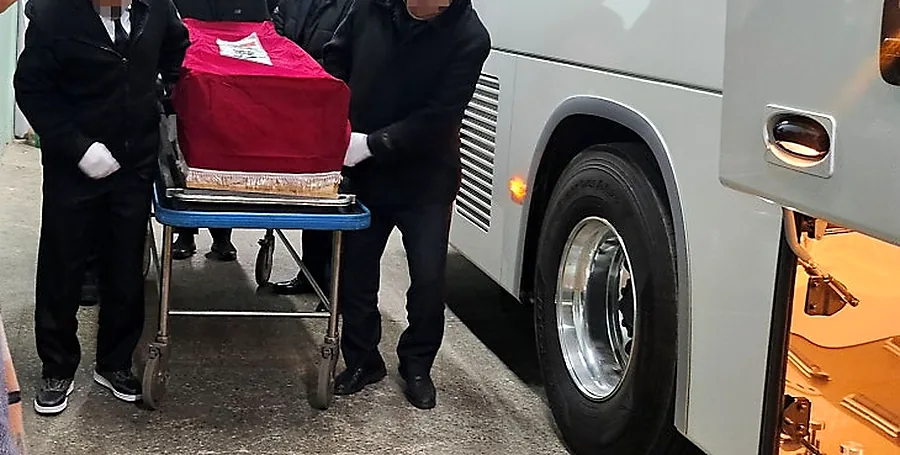
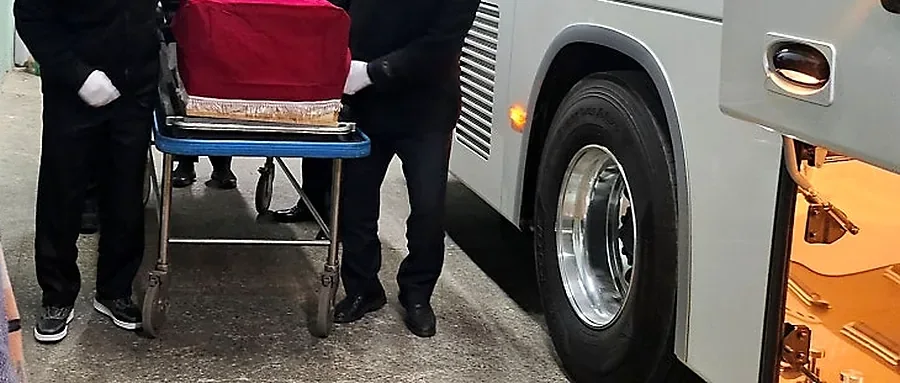
Clean up existing posts: remove 7 photos with visible masking, crop out mosaic in 5
Claude-Session: https://claude.ai/code/session_01QCBiDcxBbqWdjEUHwdyAog

diff --git a/guide/sinchon-severance-christian-4day-case.html b/guide/sinchon-severance-christian-4day-case.html
@@ -153,13 +153,13 @@ article th{background:#f1f5f9;font-weight:800;white-space:nowrap}
   <article>
 <section id="s1"><h2>늦은 밤, 한 통의 전화로 시작된 4일장</h2><p>서울 신촌의 <strong>신촌세브란스병원장례식장</strong>에서 이음케어라이프가 모신 기독교 장례입니다. 첫 연락은 밤이 깊은 시간이었습니다. 병원에서 임종 소식을 들은 유가족께서는 무엇부터 해야 할지 막막해하셨고, 동시에 <strong>"날짜가 하루 늘어나면 비용이 크게 불어나지 않을까"</strong>를 가장 먼저 걱정하셨습니다.</p><p>밤늦게 임종하시면 첫날은 사실상 안치와 접수만 하고 지나갑니다. 3일장으로 맞추면 실제로 조문을 받을 수 있는 시간은 하루 남짓뿐이고, 교회 예배 일정이나 화장장 예약 시간대까지 겹치면 여유가 더 줄어듭니다. 그래서 이번 장례는 가족과 상의해 <strong>4일장</strong>으로 정하고, 교회와 함께 드릴 예배를 중심으로 일정을 짰습니다.</p><p>장례 내내 기준은 두 가지였습니다. 신앙 안에서 정성껏 보내 드리는 것, 그리고 길어진 일정 속에서도 가족이 지치지 않도록 불필요한 부담을 덜어 드리는 것입니다.</p><div class="gal gal-1"><figure><img src="/images/guide/sinchon-severance-christian-4day-case/coffin-flowers.webp" alt="흰 꽃과 장미, 거베라로 가득 채운 관 꽃장식" loading="lazy" decoding="async"></figure></div></section>
 <section id="s2"><h2>4일장은 이렇게 흘러갔습니다</h2><figure class="fig "><img src="/images/guide/sinchon-severance-christian-4day-case/fourday.svg" alt="밤늦게 임종했을 때 3일장과 4일장의 일정을 비교한 타임라인" loading="lazy" decoding="async"></figure><p>날짜가 길어질수록 순서가 흐트러지기 쉽습니다. 이번 장례는 <strong>화장 예약 시각 → 발인 → 입관 → 예배</strong> 순으로 거꾸로 계산해 일정표를 만들었습니다.</p><h3>1일차 밤 — 접수와 안치</h3><p>임종 확인 후 장례식장 안치를 마치고, 사망진단서 발급 여부와 장례 방식을 확인했습니다. 화장장 예약 가능 시간대를 먼저 살핀 뒤 4일장으로 확정했습니다. 늦은 시간이라 빈소 준비는 다음 날 아침으로 미루고, 가족분들께는 잠시라도 쉬시도록 권해 드렸습니다.</p><h3>2일차 — 빈소 마련과 위로예배</h3><p>오전에 빈소와 제단을 갖추고 부고를 보냈습니다. 교회와 시간을 맞춰 첫 위로예배를 드리고, 본격적으로 조문을 받기 시작했습니다.</p><h3>3일차 — 입관예배</h3><p>찬송과 기도 속에서 입관을 진행했습니다. 관 안은 흰 꽃을 바탕으로 장미·거베라·안개꽃을 더해 정성껏 꾸몄습니다. 하루 여유가 있었기에 가족분들이 서두르지 않고 마지막 인사를 나누실 수 있었습니다.</p><h3>4일차 — 발인예배, 서울시립승화원 화장, 봉안</h3><p>아침 발인예배 후 운구해 <strong>서울시립승화원</strong>에서 화장을 마치고, 유골함은 <strong>서현추모공원</strong> 봉안당에 모셨습니다. 봉안 자리 앞에서도 짧은 예배로 마지막 순서를 마무리했습니다.</p></section>
-<section id="s3"><h2>기독교 4일장, 예배 일정이 중심입니다</h2><p>기독교 장례에서는 보통 <strong>위로예배(임종·빈소)</strong>, <strong>입관예배</strong>, <strong>발인예배</strong>, 그리고 화장 후 <strong>하관·봉안 예배</strong>가 이어집니다. 예배마다 목사님과 교우들이 함께하시기 때문에, 장례 일정은 교회의 일정과 맞물려 움직입니다.</p><ul><li><strong>교회 연락은 접수와 동시에</strong> — 담임 목사님 또는 교구 담당자에게 임종 사실과 장례식장, 예상 일정을 바로 알립니다.</li><li><strong>예배 시간표를 한 장으로</strong> — 위로·입관·발인 예배 시간을 정리해 가족과 교회에 같은 내용을 공유하면 혼선이 없습니다.</li><li><strong>제사 대신 예배</strong> — 상차림(제물)은 생략하거나 간소하게 하고, 헌화와 찬송으로 추모하는 경우가 많습니다. 가족 안에 종교가 다른 분이 있다면 미리 의견을 모아 두세요.</li><li><strong>유골함·봉안 준비</strong> — 종교에 맞는 유골함을 준비하고, 봉안당 안치 시간도 화장 종료 시각에 맞춰 둡니다.</li></ul><p>이번 장례도 예배 시간이 정해진 뒤에야 입관과 발인 시간을 확정했고, 덕분에 교회 분들이 모든 순서에 함께하실 수 있었습니다.</p><div class="gal gal-2"><figure><img src="/images/guide/sinchon-severance-christian-4day-case/flowers-detail.webp" alt="안개꽃과 장미, 백합류로 장식한 관 꽃장식 근접 모습" loading="lazy" decoding="async"></figure><figure><img src="/images/guide/sinchon-severance-christian-4day-case/farewell.webp" alt="검은 상복을 입은 가족들이 고개 숙여 인사하는 뒷모습" loading="lazy" decoding="async"></figure></div></section>
+<section id="s3"><h2>기독교 4일장, 예배 일정이 중심입니다</h2><p>기독교 장례에서는 보통 <strong>위로예배(임종·빈소)</strong>, <strong>입관예배</strong>, <strong>발인예배</strong>, 그리고 화장 후 <strong>하관·봉안 예배</strong>가 이어집니다. 예배마다 목사님과 교우들이 함께하시기 때문에, 장례 일정은 교회의 일정과 맞물려 움직입니다.</p><ul><li><strong>교회 연락은 접수와 동시에</strong> — 담임 목사님 또는 교구 담당자에게 임종 사실과 장례식장, 예상 일정을 바로 알립니다.</li><li><strong>예배 시간표를 한 장으로</strong> — 위로·입관·발인 예배 시간을 정리해 가족과 교회에 같은 내용을 공유하면 혼선이 없습니다.</li><li><strong>제사 대신 예배</strong> — 상차림(제물)은 생략하거나 간소하게 하고, 헌화와 찬송으로 추모하는 경우가 많습니다. 가족 안에 종교가 다른 분이 있다면 미리 의견을 모아 두세요.</li><li><strong>유골함·봉안 준비</strong> — 종교에 맞는 유골함을 준비하고, 봉안당 안치 시간도 화장 종료 시각에 맞춰 둡니다.</li></ul><p>이번 장례도 예배 시간이 정해진 뒤에야 입관과 발인 시간을 확정했고, 덕분에 교회 분들이 모든 순서에 함께하실 수 있었습니다.</p><div class="gal gal-1"><figure><img src="/images/guide/sinchon-severance-christian-4day-case/flowers-detail.webp" alt="안개꽃과 장미, 백합류로 장식한 관 꽃장식 근접 모습" loading="lazy" decoding="async"></figure></div></section>
 <section id="s4"><h2>늦은 밤 임종, 첫 1시간에 해 둘 일</h2><p>밤늦게 연락을 받으면 당황하기 쉽지만, 아래 순서만 지키면 다음 날 아침부터 차분하게 장례를 시작할 수 있습니다.</p><ol><li><strong>장례 접수 연락</strong> — 장례 접수는 24시간 가능합니다. 한 곳에 연락해 이송·안치를 맡기세요.</li><li><strong>사망진단서 확인</strong> — 병원 임종이라면 담당 의사가 발급합니다. 화장 예약과 사망신고, 보험 청구에 쓰이니 여러 부 받아 둡니다.</li><li><strong>교회 연락</strong> — 기독교 장례라면 이 단계에서 목사님께 알려 위로예배 시간을 의논합니다.</li><li><strong>화장 예약 시간대 확인</strong> — 화장은 사망 후 24시간이 지나야 가능하고, 서울시립승화원은 보건복지부 e하늘 장사정보시스템으로 예약합니다. 원하는 시간대가 차 있으면 장례가 하루 늘어날 수 있습니다.</li><li><strong>부고는 일정 확정 후</strong> — 발인 일시가 정해진 뒤 보내야 정정할 일이 없습니다. 밤에는 가까운 가족에게만 먼저 알리는 것으로 충분합니다.</li></ol><blockquote>밤이 늦었다고 아침까지 기다리실 필요는 없습니다. 접수만 먼저 해 두면, 나머지는 날이 밝은 뒤 하나씩 정해도 늦지 않습니다.</blockquote>
 <aside class="cta cta-call">
   <div class="cta-text"><strong>지금 임종·장례가 급하신가요?</strong><span>24시간 장례지도사가 바로 연결됩니다. 비용은 장례 후에 정산합니다.</span></div>
   <a class="btn btn-red" href="tel:1588-9012">📞 지금 전화하기</a>
 </aside></section>
-<section id="s5"><h2>신촌에서 장례를 치를 때 알아두면 좋은 점</h2><ul><li><strong>서울시립승화원 관내·관외 구분</strong> — 서울·고양·파주에 주민등록상 6개월 이상 거주한 분은 관내 회차를, 그 밖의 분은 관외 회차를 이용합니다. 이용료도 관내·관외가 다르니 예약할 때 고인의 주소지를 꼭 확인하세요.</li><li><strong>서류는 회차 30분 전까지</strong> — 승화원은 화장 회차 시작 30분 전까지 서류 접수를 마치도록 안내합니다. 신촌에서 출발한다면 출근 시간대 교통을 감안해 발인 시간을 넉넉히 잡는 것이 안전합니다.</li><li><strong>장례식장 비용은 별도</strong> — 빈소 사용료·안치료·식대는 장례식장에 직접 내는 항목입니다. 4일장이 되면 이 부분이 하루치 더 늘어납니다.</li><li><strong>봉안당 안치 시간 예약</strong> — 사설 추모공원은 안치 가능 시간이 정해져 있는 경우가 많습니다. 화장이 끝나는 시각과 이동 시간을 계산해 미리 맞춰 두세요.</li></ul><p>3일장 전체 절차는 <a href="/guide/funeral-3-day-procedure">3일장 장례 절차 총정리</a>, 같은 기독교 장례라도 규모를 줄인 사례는 <a href="/guide/paju-hanbit-christian-family-funeral-case">파주한빛장례식장 기독교 2일 가족장 후기</a>에서 보실 수 있습니다.</p><div class="gal gal-2"><figure><img src="/images/guide/sinchon-severance-christian-4day-case/hearse.webp" alt="운구 리무진 뒷문을 열고 관을 모실 준비를 하는 장례지도사" loading="lazy" decoding="async"></figure><figure><img src="/images/guide/sinchon-severance-christian-4day-case/columbarium.webp" alt="봉안당 실내에서 가족들이 유골함 앞에 서 있는 모습" loading="lazy" decoding="async"></figure></div></section>
+<section id="s5"><h2>신촌에서 장례를 치를 때 알아두면 좋은 점</h2><ul><li><strong>서울시립승화원 관내·관외 구분</strong> — 서울·고양·파주에 주민등록상 6개월 이상 거주한 분은 관내 회차를, 그 밖의 분은 관외 회차를 이용합니다. 이용료도 관내·관외가 다르니 예약할 때 고인의 주소지를 꼭 확인하세요.</li><li><strong>서류는 회차 30분 전까지</strong> — 승화원은 화장 회차 시작 30분 전까지 서류 접수를 마치도록 안내합니다. 신촌에서 출발한다면 출근 시간대 교통을 감안해 발인 시간을 넉넉히 잡는 것이 안전합니다.</li><li><strong>장례식장 비용은 별도</strong> — 빈소 사용료·안치료·식대는 장례식장에 직접 내는 항목입니다. 4일장이 되면 이 부분이 하루치 더 늘어납니다.</li><li><strong>봉안당 안치 시간 예약</strong> — 사설 추모공원은 안치 가능 시간이 정해져 있는 경우가 많습니다. 화장이 끝나는 시각과 이동 시간을 계산해 미리 맞춰 두세요.</li></ul><p>3일장 전체 절차는 <a href="/guide/funeral-3-day-procedure">3일장 장례 절차 총정리</a>, 같은 기독교 장례라도 규모를 줄인 사례는 <a href="/guide/paju-hanbit-christian-family-funeral-case">파주한빛장례식장 기독교 2일 가족장 후기</a>에서 보실 수 있습니다.</p><div class="gal gal-1"><figure><img src="/images/guide/sinchon-severance-christian-4day-case/hearse.webp" alt="운구 리무진 뒷문을 열고 관을 모실 준비를 하는 장례지도사" loading="lazy" decoding="async"></figure></div></section>
 <section id="s6"><h2>4일장이면 상조 비용도 두 배가 될까?</h2><p>가장 많이 받는 오해입니다. 결론부터 말하면 <strong>그렇지 않습니다.</strong> 장례가 하루 늘면 주로 아래 항목이 늘어납니다.</p><table><thead><tr><th>항목</th><th>하루 늘어날 때</th><th>어디에 내나</th></tr></thead><tbody><tr><td>빈소 사용료·안치료</td><td>하루치 추가</td><td>장례식장</td></tr><tr><td>조문객 식사·음료</td><td>조문 인원만큼 추가</td><td>장례식장</td></tr><tr><td>접객 도우미</td><td>투입 일수에 따라 조정</td><td>상조</td></tr><tr><td>관·수의·입관용품·차량</td><td>변동 없음 (한 번만 사용)</td><td>상조</td></tr></tbody></table><p>관·수의·유골함·운구 차량처럼 장례에 한 번만 쓰이는 품목은 일수와 상관이 없습니다. 그래서 4일장의 추가 비용은 대부분 <strong>장례식장 쪽 하루치 비용과 인력 일수</strong>에서 생깁니다. 정확한 금액은 장례식장 요금표와 조문객 규모에 따라 달라지니, 접수 단계에서 하루가 늘어날 때의 차이를 함께 계산해 드립니다.</p>
 <aside class="cta cta-consult">
   <div class="cta-text"><strong>혼자 정하기 어려우시면 물어보세요</strong><span>장례·요양병원·방문요양 무엇이든 24시간 무료 상담합니다.</span></div>

diff --git a/guide/yangju-hankook-buddhist-spouse-3day-case.html b/guide/yangju-hankook-buddhist-spouse-3day-case.html
@@ -151,8 +151,8 @@ article th{background:#f1f5f9;font-weight:800;white-space:nowrap}
   <div class="summary"><b>핵심만 먼저</b><ul><li>평생을 함께한 배우자를 보내는 장례로, 상주가 지치지 않도록 일정과 역할을 미리 나눴습니다.</li><li>불교식 제단과 입관 후, 셋째 날 이른 아침 발인해 성남 화장장으로 이동했습니다.</li><li>화장장이 먼 경우 발인 시각은 화장 회차에서 이동 시간을 빼 거꾸로 정합니다.</li></ul></div>
   <nav class="toc"><b>목차</b><ol><li><a href="#s1">평생의 동반자를 보내는 장례였습니다</a></li><li><a href="#s2">3일 동안 이렇게 진행했습니다</a></li><li><a href="#s3">멀리 있는 화장장, 발인 시간은 거꾸로 계산합니다</a></li><li><a href="#s4">양주에서 화장장을 고를 때 알아두면 좋은 점</a></li><li><a href="#s5">배우자상, 남은 배우자를 위한 체크리스트</a></li><li><a href="#s6">불교식 장례, 날짜별로 준비할 것</a></li><li><a href="#s7">후불제 상조라서 가능했던 것</a></li></ol></nav>
   <article>
-<section id="s1"><h2>평생의 동반자를 보내는 장례였습니다</h2><p>경기 양주의 <strong>양주한국병원장례식장</strong>에서 이음케어라이프가 함께한 <strong>배우자상</strong>입니다. 고인과 유가족 모두 불교 신앙을 지녀 왔기에, 장례는 처음부터 <strong>불교식 3일장</strong>으로 정했습니다.</p><p>배우자상은 다른 장례와 조금 다릅니다. 가장 큰 슬픔을 안은 분이 동시에 손님을 맞아야 하는 자리에 서게 되고, 대개 연세도 있으셔서 사흘 내내 빈소를 지키는 일이 체력적으로 큰 부담이 됩니다. 그래서 이번 장례에서는 접수 직후 자녀분들과 함께 <strong>누가 무엇을 맡을지</strong>부터 정리했습니다. 배우자분은 고인 곁에서 마지막 시간을 보내시는 데 집중하고, 조문객 응대와 연락, 정산 같은 실무는 자녀분들과 장례지도사가 나눠 맡는 방식이었습니다.</p><div class="gal gal-1"><figure><img src="/images/guide/yangju-hankook-buddhist-spouse-3day-case/altar.webp" alt="흰 국화로 층층이 꾸민 불교식 빈소 제단과 향로, 촛대" loading="lazy" decoding="async"></figure></div></section>
-<section id="s2"><h2>3일 동안 이렇게 진행했습니다</h2><h3>1일차 — 접수, 안치, 빈소 마련</h3><p>장례 접수와 함께 불교식·3일장 원칙을 확정하고, 병원 장례식장 빈소를 바로 차렸습니다. 같은 날 화장장 예약 가능 회차를 확인해 발인 시각의 큰 틀을 잡았습니다. 제단은 흰 국화를 층층이 올린 단정한 형태로, 향로와 촛대를 갖춘 불교식으로 꾸몄습니다.</p><h3>2일차 — 불교식 입관</h3><p>입관은 정해진 시간에 차분하게 진행했습니다. 염습과 수의 착의를 마친 뒤 가족분들께 충분한 인사 시간을 드렸고, 가족들은 관 위에 한 사람씩 마지막 말을 적어 고인께 전했습니다. 과한 연출 없이 기본 절차를 지키는 데 집중했습니다.</p><h3>3일차 — 이른 아침 발인, 성남 화장, 납골당 안치</h3><p>발인은 <strong>이른 아침 6시 무렵</strong>이었습니다. 화장장이 양주에서 꽤 떨어진 성남에 있었기 때문입니다. 고인은 운구 리무진으로, 가족과 조문객은 장례 버스로 함께 이동해 화장을 마치고, 유골함은 <strong>가족 납골당</strong>에 모셨습니다.</p><div class="gal gal-1"><figure><img src="/images/guide/yangju-hankook-buddhist-spouse-3day-case/coffin-writing.webp" alt="가족들이 관 위에 몸을 숙여 마지막 글을 적는 모습" loading="lazy" decoding="async"></figure></div></section>
+<section id="s1"><h2>평생의 동반자를 보내는 장례였습니다</h2><p>경기 양주의 <strong>양주한국병원장례식장</strong>에서 이음케어라이프가 함께한 <strong>배우자상</strong>입니다. 고인과 유가족 모두 불교 신앙을 지녀 왔기에, 장례는 처음부터 <strong>불교식 3일장</strong>으로 정했습니다.</p><p>배우자상은 다른 장례와 조금 다릅니다. 가장 큰 슬픔을 안은 분이 동시에 손님을 맞아야 하는 자리에 서게 되고, 대개 연세도 있으셔서 사흘 내내 빈소를 지키는 일이 체력적으로 큰 부담이 됩니다. 그래서 이번 장례에서는 접수 직후 자녀분들과 함께 <strong>누가 무엇을 맡을지</strong>부터 정리했습니다. 배우자분은 고인 곁에서 마지막 시간을 보내시는 데 집중하고, 조문객 응대와 연락, 정산 같은 실무는 자녀분들과 장례지도사가 나눠 맡는 방식이었습니다.</p></section>
+<section id="s2"><h2>3일 동안 이렇게 진행했습니다</h2><h3>1일차 — 접수, 안치, 빈소 마련</h3><p>장례 접수와 함께 불교식·3일장 원칙을 확정하고, 병원 장례식장 빈소를 바로 차렸습니다. 같은 날 화장장 예약 가능 회차를 확인해 발인 시각의 큰 틀을 잡았습니다. 제단은 흰 국화를 층층이 올린 단정한 형태로, 향로와 촛대를 갖춘 불교식으로 꾸몄습니다.</p><h3>2일차 — 불교식 입관</h3><p>입관은 정해진 시간에 차분하게 진행했습니다. 염습과 수의 착의를 마친 뒤 가족분들께 충분한 인사 시간을 드렸고, 가족들은 관 위에 한 사람씩 마지막 말을 적어 고인께 전했습니다. 과한 연출 없이 기본 절차를 지키는 데 집중했습니다.</p><h3>3일차 — 이른 아침 발인, 성남 화장, 납골당 안치</h3><p>발인은 <strong>이른 아침 6시 무렵</strong>이었습니다. 화장장이 양주에서 꽤 떨어진 성남에 있었기 때문입니다. 고인은 운구 리무진으로, 가족과 조문객은 장례 버스로 함께 이동해 화장을 마치고, 유골함은 <strong>가족 납골당</strong>에 모셨습니다.</p></section>
 <section id="s3"><h2>멀리 있는 화장장, 발인 시간은 거꾸로 계산합니다</h2><figure class="fig "><img src="/images/guide/yangju-hankook-buddhist-spouse-3day-case/route.svg" alt="양주한국병원장례식장에서 성남 화장장, 가족 납골당으로 이어지는 발인 날 동선" loading="lazy" decoding="async"></figure><p>이번 장례의 가장 큰 변수는 <strong>거리</strong>였습니다. 양주에서 성남까지는 수도권을 가로지르는 길이라, 출근 시간대에 걸리면 이동 시간을 장담하기 어렵습니다. 그래서 발인 시각을 이렇게 정했습니다.</p><ol><li>화장장 예약 <strong>회차 시작 시각</strong>을 기준으로 잡습니다.</li><li>화장장마다 회차 전 <strong>서류 접수 마감</strong>이 있습니다. 예를 들어 서울시립승화원은 회차 30분 전까지 접수하도록 안내합니다. 이 여유를 뺍니다.</li><li>평소 이동 시간에 <strong>정체 여유</strong>를 더해 뺍니다.</li><li>그 시각보다 조금 앞서 발인 예식을 시작합니다.</li></ol><p>그 결과가 새벽에 가까운 발인이었습니다. 전날 저녁, 운구 인원과 영정·위패를 모실 분, 버스 탑승 인원과 집합 시각을 미리 정해 두었기에 이른 시간에도 순서가 흐트러지지 않았습니다.</p></section>
 <section id="s4"><h2>양주에서 화장장을 고를 때 알아두면 좋은 점</h2><p>공설 화장장은 대부분 <strong>관내(해당 지역 주민)</strong>와 <strong>관외</strong>를 나눠 예약 회차와 요금을 다르게 운영합니다. 양주에서 장례를 치를 때 미리 알아 두면 좋은 내용입니다.</p><ul><li><strong>서울시립승화원은 관외</strong> — 승화원의 관내 회차는 서울·고양·파주에 주민등록상 6개월 이상 거주한 분이 대상입니다. 고인 주소지가 양주라면 관외 회차를 이용하게 됩니다.</li><li><strong>예약은 e하늘로</strong> — 대부분의 공설 화장장은 보건복지부 e하늘 장사정보시스템으로 예약합니다. 원하는 날짜에 관외 회차가 없으면 더 먼 화장장을 이용하거나 일정이 늘어날 수 있습니다.</li><li><strong>화장은 사망 후 24시간 이후</strong> — 이 기준과 예약 가능 회차를 함께 보고 발인일을 정합니다.</li><li><strong>요금은 예약 단계에서 확인</strong> — 관외 요금은 화장장마다 차이가 크니, 장례지도사와 후보 화장장의 요금과 이동 거리를 같이 비교해 보세요.</li></ul><p>이번 장례는 이런 조건을 따져 성남 화장장을 이용했습니다. 장례 전체 절차가 궁금하시면 <a href="/guide/funeral-3-day-procedure">3일장 장례 절차 총정리</a>를 함께 보시면 도움이 됩니다.</p>
 <aside class="cta cta-call">

diff --git a/guide/paju-hanbit-christian-family-funeral-case.html b/guide/paju-hanbit-christian-family-funeral-case.html
@@ -153,12 +153,12 @@ article th{background:#f1f5f9;font-weight:800;white-space:nowrap}
   <article>
 <section id="s1"><h2>가족만의 조용한 이별을 원하셨습니다</h2><p>파주에 있는 <strong>파주한빛장례식장</strong>에서 이음케어라이프가 함께한 장례입니다. 고인께서는 오랜 기간 요양병원에서 지내셨고, 한때 좋아지시는 듯하다가 다시 상태가 나빠져 가족분들의 상심이 무척 컸습니다.</p><p>유가족께서는 많은 조문객을 맞기보다 <strong>가족끼리 조용히, 그러나 신앙 안에서 정성껏</strong> 보내드리길 원하셨습니다. 그래서 기독교식 <strong>2일 가족장</strong>으로 일정을 설계했습니다.</p></section>
 <section id="s2"><h2>2일 가족장은 이렇게 흘러갑니다</h2><figure class="fig "><img src="/images/guide/paju-hanbit-christian-family-funeral-case/twoday.svg" alt="2일 가족장과 3일장의 일정 비교 그림" loading="lazy" decoding="async"></figure><p>3일장보다 하루가 짧은 2일장은 일정이 촘촘합니다. 이번 장례는 다음 순서로 진행했습니다.</p><ol><li><strong>1일차</strong> — 장례식장 안치, 가족 중심의 작은 빈소 마련, 교회와 예배 일정 조율</li><li><strong>2일차</strong> — 입관 예배, 발인, 서울시립승화원 화장</li></ol><p>가족장은 부고 범위를 가족·가까운 지인으로 좁히기 때문에 빈소 규모와 식사 준비도 그만큼 줄어듭니다. 대신 짧은 시간 안에 예배와 입관, 발인이 이어지므로 <strong>교회 측(목사님·교우)과 시간을 미리 맞추는 것</strong>이 가장 중요했습니다.</p></section>
-<section id="s3"><h2>찬송과 기도 속의 입관 예배</h2><p>입관은 고인의 신앙을 기리는 <strong>예배 형식</strong>으로 진행했습니다. 찬송과 기도가 이어지는 차분한 분위기 속에서 장례지도사가 정성껏 염습을 마치고 고인을 평온한 모습으로 모셨습니다.</p><p>가족분들은 관 위에 하얀 꽃과 백합을 올리고, 관 뚜껑에 한 분 한 분 마지막 편지를 적어 드렸습니다. 짧은 일정이었지만, 이 시간만큼은 서두르지 않도록 충분히 시간을 비워 두었습니다.</p><div class="gal gal-3"><figure><img src="/images/guide/paju-hanbit-christian-family-funeral-case/flowers.webp" alt="백합과 흰 꽃으로 장식한 관" loading="lazy" decoding="async"></figure><figure><img src="/images/guide/paju-hanbit-christian-family-funeral-case/messages.webp" alt="가족들이 관에 마지막 편지를 적는 모습" loading="lazy" decoding="async"></figure><figure><img src="/images/guide/paju-hanbit-christian-family-funeral-case/farewell.webp" alt="가족들이 고개 숙여 인사하는 모습" loading="lazy" decoding="async"></figure></div></section>
+<section id="s3"><h2>찬송과 기도 속의 입관 예배</h2><p>입관은 고인의 신앙을 기리는 <strong>예배 형식</strong>으로 진행했습니다. 찬송과 기도가 이어지는 차분한 분위기 속에서 장례지도사가 정성껏 염습을 마치고 고인을 평온한 모습으로 모셨습니다.</p><p>가족분들은 관 위에 하얀 꽃과 백합을 올리고, 관 뚜껑에 한 분 한 분 마지막 편지를 적어 드렸습니다. 짧은 일정이었지만, 이 시간만큼은 서두르지 않도록 충분히 시간을 비워 두었습니다.</p><div class="gal gal-2"><figure><img src="/images/guide/paju-hanbit-christian-family-funeral-case/flowers.webp" alt="백합과 흰 꽃으로 장식한 관" loading="lazy" decoding="async"></figure><figure><img src="/images/guide/paju-hanbit-christian-family-funeral-case/farewell.webp" alt="가족들이 고개 숙여 인사하는 모습" loading="lazy" decoding="async"></figure></div></section>
 <section id="s4"><h2>작게 치러도 소홀하지 않게</h2><p>가족장이라고 해서 준비가 가벼워지는 건 아닙니다. 다만 <strong>필요 없는 것을 덜어내는</strong> 판단이 중요합니다.</p><ul><li>조문객 규모에 맞춰 접객 인력을 최소화</li><li>빈소는 작은 호실로, 제단 꽃은 단정하게</li><li>예배 순서와 입관·발인 시간을 한 장의 일정표로 정리해 가족 단톡방에 공유</li></ul><p>그 결과 가족분들은 손님 응대에 지치지 않고, 남은 시간을 고인을 추억하는 데 쓰실 수 있었습니다. 장례 후 "곁에 있어 줘서 큰 힘이 됐다"는 인사를 전해 주셨습니다.</p>
 <aside class="cta cta-consult">
   <div class="cta-text"><strong>혼자 정하기 어려우시면 물어보세요</strong><span>장례·요양병원·방문요양 무엇이든 24시간 무료 상담합니다.</span></div>
   <div class="cta-btns"><a class="btn btn-blue" href="tel:1588-9012">📞 1588-9012</a><a class="btn btn-ghost" href="http://pf.kakao.com/_PxmQG/chat" target="_blank" rel="noopener">카카오톡 상담</a></div>
-</aside><div class="gal gal-2"><figure><img src="/images/guide/paju-hanbit-christian-family-funeral-case/altar.webp" alt="흰 국화로 단정하게 꾸민 가족장 빈소 제단" loading="lazy" decoding="async"></figure><figure><img src="/images/guide/paju-hanbit-christian-family-funeral-case/family.webp" alt="가족들이 함께 모여 고인을 배웅하는 모습" loading="lazy" decoding="async"></figure></div></section>
+</aside><div class="gal gal-1"><figure><img src="/images/guide/paju-hanbit-christian-family-funeral-case/family.webp" alt="가족들이 함께 모여 고인을 배웅하는 모습" loading="lazy" decoding="async"></figure></div></section>
 <section id="s5"><h2>가족장 부고, 이렇게 보내면 오해가 없습니다</h2><p>가족장에서 가장 조심스러운 부분이 부고입니다. 알리지 않으면 서운해하는 분이 생기고, 널리 알리면 가족장의 취지가 흐려지기 때문입니다. 이번 장례에서 유가족과 정리한 방법은 이렇습니다.</p><ul><li><strong>알릴 범위</strong> — 직계 가족, 가까운 친척, 고인이 다니던 교회의 몇 분으로 한정</li><li><strong>부고 문구</strong> — 장례 장소와 일시를 적되, "가족장으로 조용히 모시고자 하오니 조문과 조의는 정중히 사양합니다" 같은 한 줄을 덧붙이기</li><li><strong>장례 후 알림</strong> — 미처 알리지 못한 지인에게는 장례를 마친 뒤 감사 인사와 함께 소식을 전하기</li></ul><p>이렇게 하면 조문객 응대에 쓰일 시간을 고인을 추모하는 데 온전히 쓸 수 있고, 장례 후에도 관계에 서운함이 남지 않습니다. 기독교 가정이라면 교회 소식지나 단체방을 통해 예배 일정만 따로 공유하는 것도 방법입니다.</p></section>
 <section id="s6"><h2>작은 가족장, 비용은 어디서 달라질까</h2><p>가족장은 '싸게 치르는 장례'가 아니라 <strong>필요한 만큼만 쓰는 장례</strong>입니다. 같은 2일장이라도 아래 항목에서 차이가 납니다.</p><table><thead><tr><th>항목</th><th>일반 3일장</th><th>2일 가족장</th></tr></thead><tbody><tr><td>빈소 크기</td><td>조문객에 맞춘 중·대형 호실</td><td>작은 호실로 충분</td></tr><tr><td>식사·음료</td><td>조문객 수만큼</td><td>가족 위주로 최소화</td></tr><tr><td>접객 인력</td><td>도우미 배치</td><td>필요 시에만</td></tr><tr><td>장례 기간</td><td>빈소 사용 3일</td><td>하루 짧아 사용료 감소</td></tr></tbody></table><p>반대로 염습·입관, 장의차량, 화장처럼 <strong>고인을 모시는 기본 절차</strong>는 규모와 관계없이 똑같이 정성을 들입니다. 후불제 상조는 실제로 사용한 항목만 정산하므로 이런 차이가 그대로 비용에 반영됩니다.</p></section>
 <section id="s7"><h2>파주에서 기독교 가족장을 준비하신다면</h2><ul><li><strong>교회 연락은 접수와 동시에</strong> — 2일장은 하루가 짧아 예배 시간을 먼저 잡아야 나머지 일정이 맞춰집니다.</li><li><strong>부고 범위를 가족과 먼저 정하기</strong> — 가족장이라면 "조의금·조문은 정중히 사양합니다" 같은 문구를 부고에 넣을지도 함께 정하세요.</li><li><strong>화장장 예약 확인</strong> — 이번 장례는 서울시립승화원을 이용했습니다. 예약 시간과 고인의 주소지에 따른 이용료를 접수 직후 확인하는 것이 좋습니다.</li><li><strong>비용은 장례 후 정산</strong> — 후불제 상조는 실제 사용한 항목만 정산하므로, 가족장처럼 규모가 작을수록 부담이 줄어듭니다.</li></ul><p>후불제 상조가 처음이라면 <a href="/guide/postpaid-sangjo-how-it-works">후불제 상조 이용 방법 6단계</a>를 먼저 읽어 보셔도 좋습니다.</p>

diff --git a/guide/ilsan-bogeum-funeral-3day-case.html b/guide/ilsan-bogeum-funeral-3day-case.html
@@ -151,7 +151,7 @@ article th{background:#f1f5f9;font-weight:800;white-space:nowrap}
   <div class="summary"><b>핵심만 먼저</b><ul><li>종교 의례 없는 일반장례로, 기본 절차에 집중해 3일장을 치렀습니다.</li><li>입관은 둘째 날 오후, 발인은 셋째 날 이른 아침에 진행했습니다.</li><li>화장장 예약 시각에 맞춰 발인 시간을 거꾸로 계산한 것이 핵심이었습니다.</li></ul></div>
   <nav class="toc"><b>목차</b><ol><li><a href="#s1">어떤 장례였나요</a></li><li><a href="#s2">날짜별로 본 3일의 흐름</a></li><li><a href="#s3">이른 아침 발인, 이렇게 준비했습니다</a></li><li><a href="#s4">일산에서 장례를 치를 때 알아두면 좋은 점</a></li><li><a href="#s5">임종 연락을 받은 순간부터 첫 2시간 체크리스트</a></li><li><a href="#s6">후불제 상조라서 가능했던 것</a></li></ol></nav>
   <article>
-<section id="s1"><h2>어떤 장례였나요</h2><p>고양시 일산에 있는 <strong>일산복음병원장례식장</strong>에서 이음케어라이프가 함께한 3일장입니다. 유가족께서는 종교 의례 없이 <strong>일반장례</strong>로, 조용하지만 빠짐없이 예를 갖추기를 원하셨습니다.</p><p>그래서 처음 상담에서 꼭 필요한 절차만 남기고 일정을 짰습니다. 화려한 구성보다 '고인을 잘 모시는 것'과 '가족이 지치지 않는 것' 두 가지를 기준으로 삼았습니다.</p><div class="gal gal-1"><figure><img src="/images/guide/ilsan-bogeum-funeral-3day-case/altar.webp" alt="흰 국화로 꾸민 빈소 제단과 영정" loading="lazy" decoding="async"></figure></div></section>
+<section id="s1"><h2>어떤 장례였나요</h2><p>고양시 일산에 있는 <strong>일산복음병원장례식장</strong>에서 이음케어라이프가 함께한 3일장입니다. 유가족께서는 종교 의례 없이 <strong>일반장례</strong>로, 조용하지만 빠짐없이 예를 갖추기를 원하셨습니다.</p><p>그래서 처음 상담에서 꼭 필요한 절차만 남기고 일정을 짰습니다. 화려한 구성보다 '고인을 잘 모시는 것'과 '가족이 지치지 않는 것' 두 가지를 기준으로 삼았습니다.</p></section>
 <section id="s2"><h2>날짜별로 본 3일의 흐름</h2><figure class="fig "><img src="/images/guide/ilsan-bogeum-funeral-3day-case/flow.svg" alt="1일차 접수, 2일차 입관, 3일차 발인과 화장 순서 타임라인" loading="lazy" decoding="async"></figure><h3>1일차 — 접수와 일정 확정</h3><p>장례 접수 직후 장례식장 빈소와 안치를 확인하고, 가장 먼저 <strong>화장장 예약 가능 시간</strong>을 확인했습니다. 화장 시간이 정해져야 발인 시간이 정해지고, 발인 시간이 정해져야 입관 시간이 정해지기 때문입니다.</p><h3>2일차 — 오후 입관</h3><p>입관은 둘째 날 오후에 진행했습니다. 가족분들이 서두르지 않고 마지막 인사를 나눌 수 있도록 시간을 넉넉히 잡았고, 일반장례 형식에 맞춰 단정하게 모셨습니다. 입관 이후 상복을 갖추고 본격적으로 조문을 받으셨습니다.</p><h3>3일차 — 이른 아침 발인, 서울시립승화원 화장</h3><p>발인은 셋째 날 <strong>오전 7시</strong>였습니다. 오전 8시대 화장 예약에 맞추려면 이 시간이 가장 안전했습니다. 운구 후 장의버스로 서울시립승화원까지 이동해 예정된 시간에 화장을 마쳤습니다.</p></section>
 <section id="s3"><h2>이른 아침 발인, 이렇게 준비했습니다</h2><p>발인이 이른 아침이면 가족분들이 가장 많이 걱정하시는 게 <strong>운구 인원과 이동 시간</strong>입니다. 이번 장례에서는 전날 저녁에 다음 내용을 미리 정리해 두었습니다.</p><ul><li>운구에 함께할 가족·지인 명단과 집합 시간</li><li>영정과 위패를 모실 분</li><li>장의버스 탑승 인원과 화장장 도착 예정 시간</li><li>화장 후 유골함을 모실 장소와 이동 순서</li></ul><p>덕분에 당일 아침에는 누구도 우왕좌왕하지 않고 차분하게 고인을 배웅할 수 있었습니다.</p>
 <aside class="cta cta-call">
